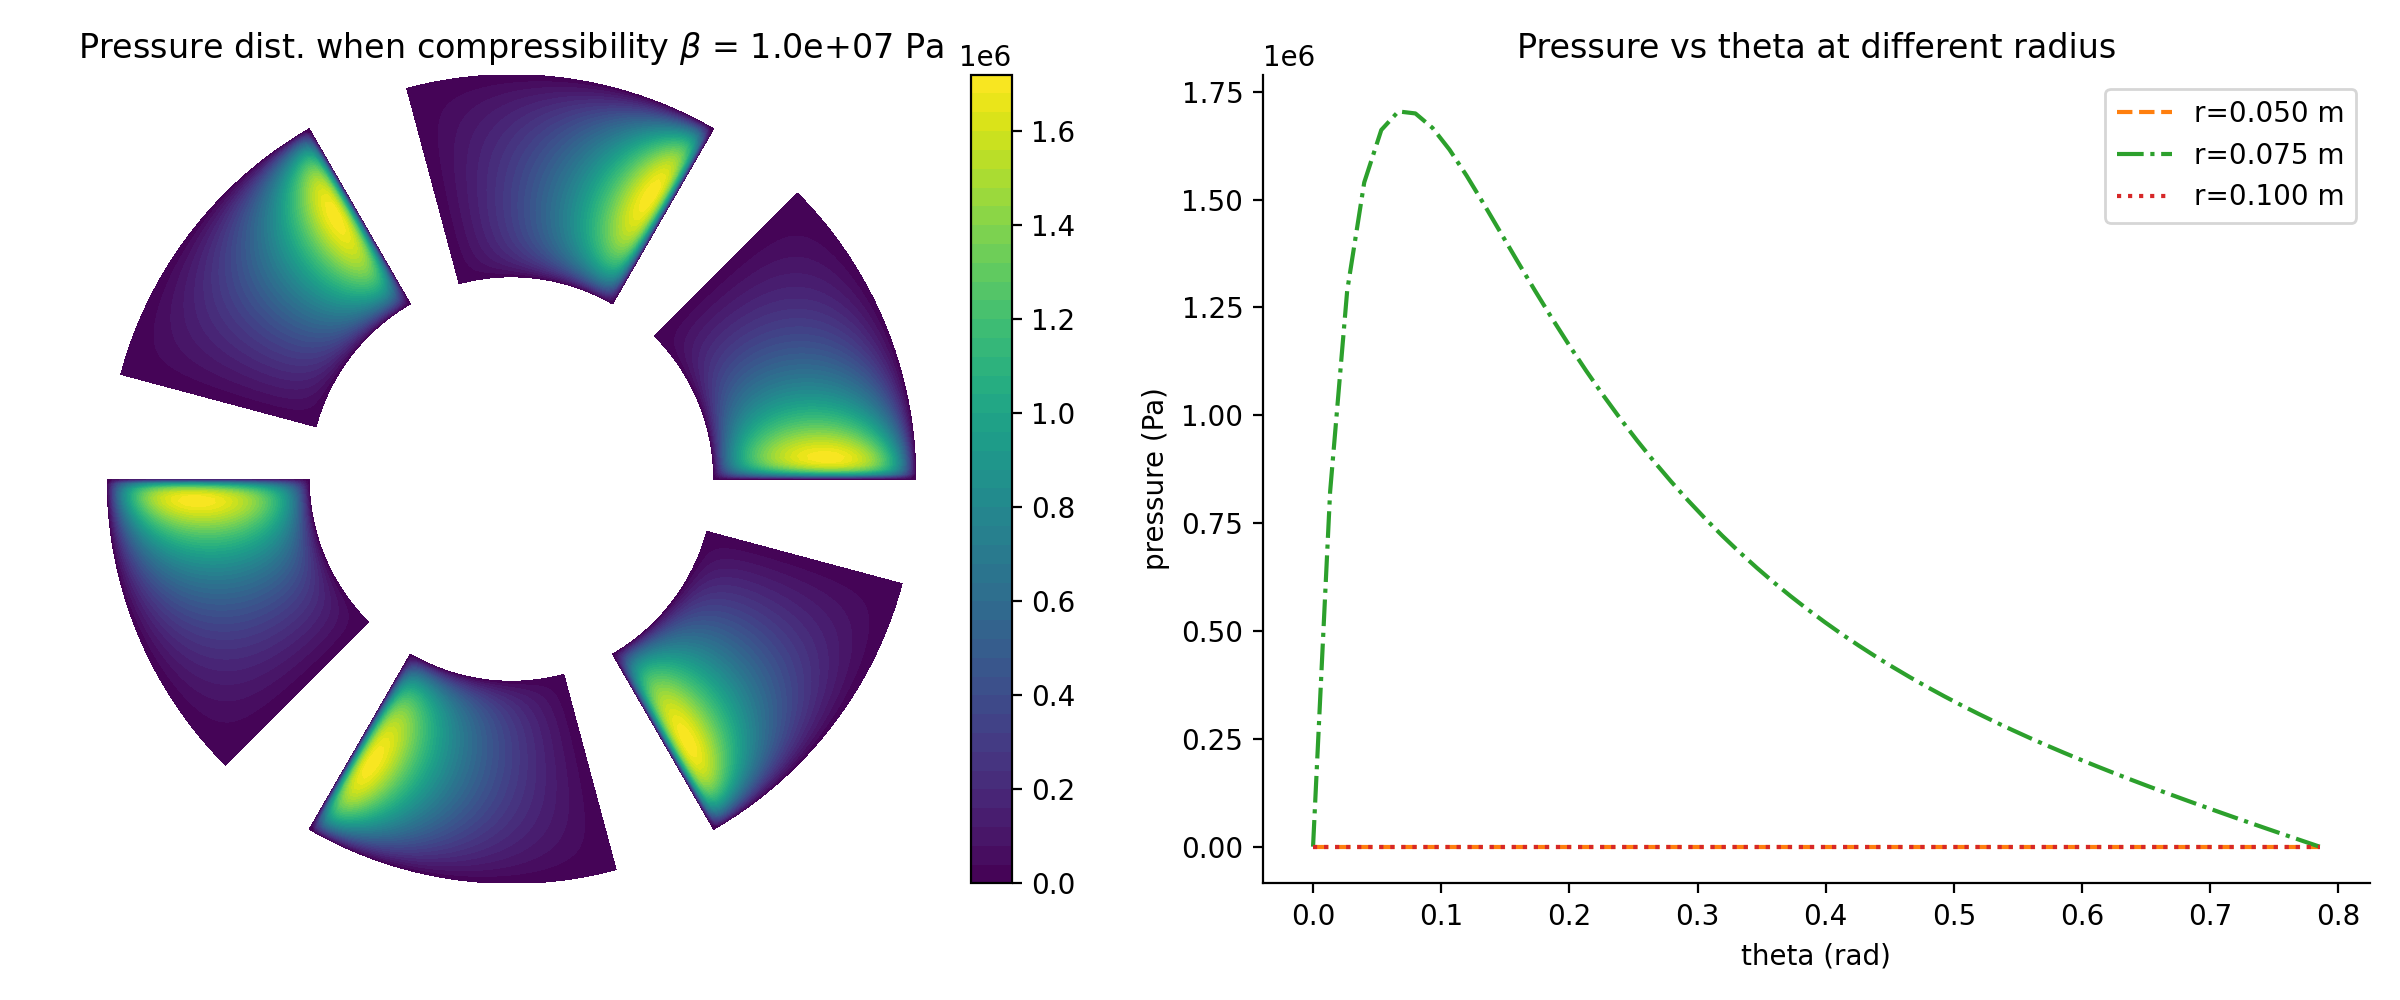
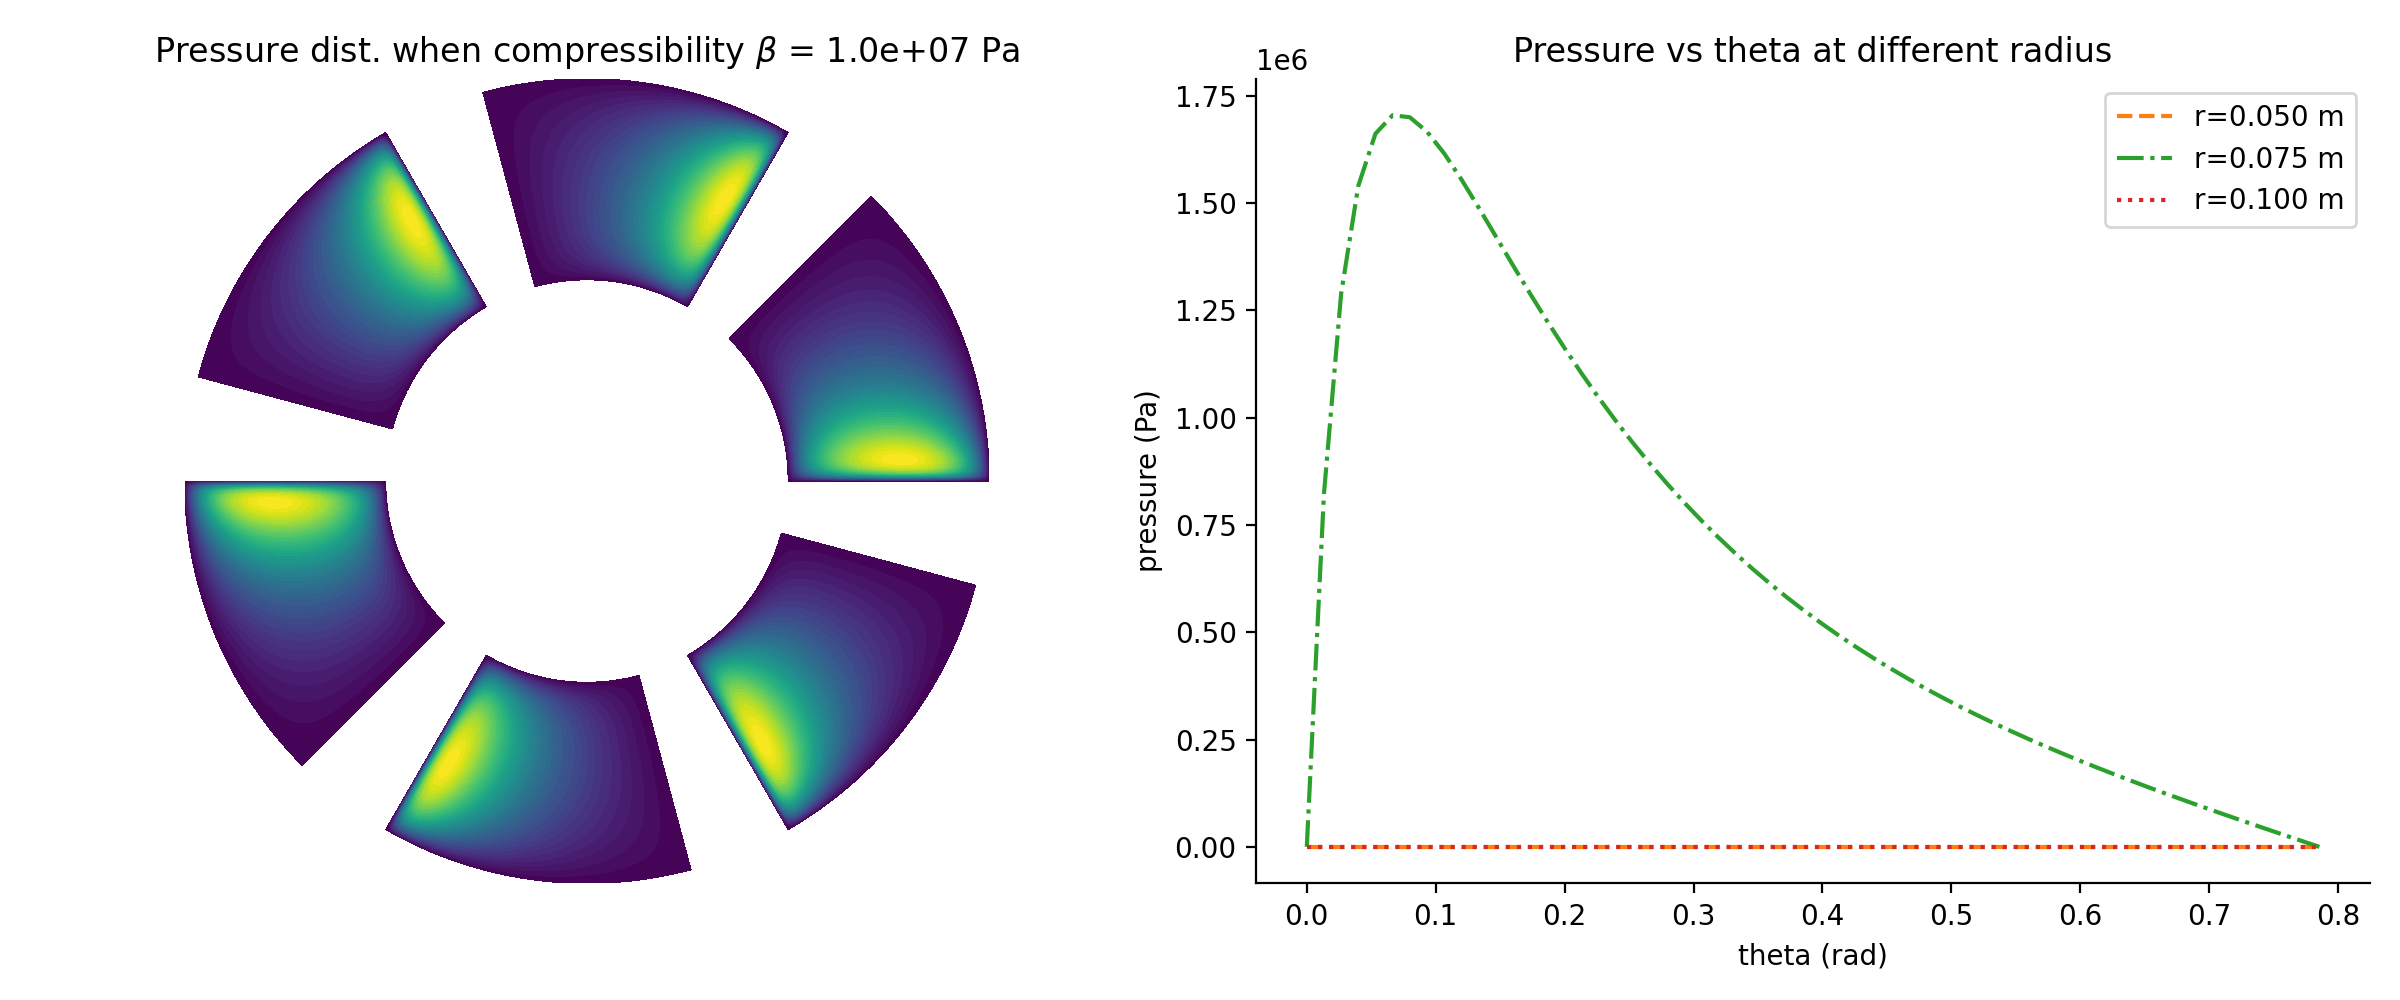
Removed colorbar

diff --git a/src/compressible_flow.py b/src/compressible_flow.py
@@ -248,7 +248,7 @@ def compressible_flow(
         ax1.set_title(rf"Pressure dist. when compressibility $\beta$ = {beta:.1e} Pa")
     ax1.set_aspect("equal", "box"),
     ax1.spines[["left", "bottom", "top", "right"]].set_visible(False)
-    plt.colorbar(cf, ax=ax1, orientation="vertical")
+    # plt.colorbar(cf, ax=ax1, orientation="vertical")
 
     ax2 = fig.add_subplot(1, 2, 2)
     ax2.plot(theta, P_clip[0, :], "--", label=f"r={r_in:.3f} m", color="C1")

diff --git a/src/pressure_distribution.py b/src/pressure_distribution.py
@@ -186,7 +186,7 @@ def pressure_distribution(
     ax1.set_aspect("equal", "box")
     ax1.set(xticks=[], yticks=[])
     ax1.spines[["left", "bottom", "top", "right"]].set_visible(False)
-    plt.colorbar(cf, ax=ax1, orientation="vertical")
+    # plt.colorbar(cf, ax=ax1, orientation="vertical")
 
     # 1D vs radial slices
     ax2 = fig.add_subplot(1, 2, 2)
